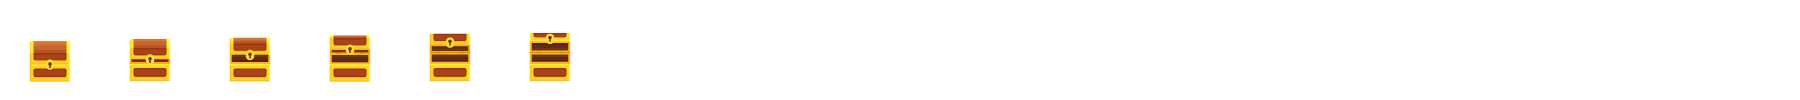
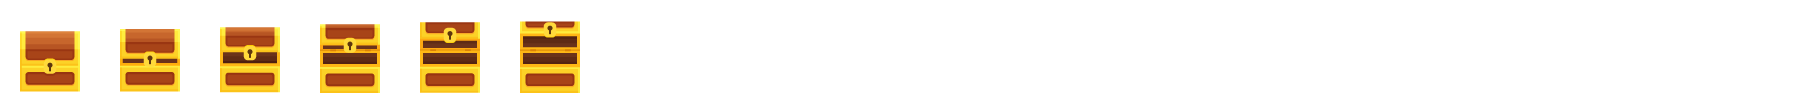
added chest item, now working on game_over state

Changed region(s): [[0.0, 0.21, 0.3422, 0.93]]

diff --git a/Main.py b/Main.py
@@ -9,6 +9,63 @@ import spritesheet
 platforms.platformS
 """
 
+
+class Menu(object):
+    def __init__(self):
+        object.__init__(self)
+        self.x = worldx
+        self.y = 5
+        self.font_size = 42
+        self.max_font_size = 104
+        self.font = pygame.font.Font('ARCADECLASSIC.TTF', self.font_size)
+        self.cs = spritesheet.spritesheet(os.path.join('images/object', 'coin100.png'))
+        self.coin_ani_count = 0
+        self.coin_rotation_rate = .2
+        self.coin_ani = self.cs.load_strip((0, 0, 100, 100), 16, (0, 0, 0))
+        self.score_spacer = 5
+        self.score_width = 0
+        self.transition_speed = 10
+        self.transition_count = 0
+        self.score_width = 0
+        self.transition_diff = round((self.x + (self.score_width / 2) / (worldx / 2)))
+        self.game_win = False
+        for i in range(0, len(self.coin_ani)):
+            size = self.font_size
+            self.coin_ani[i] = pygame.transform.scale(self.coin_ani[i], (size, size))
+
+
+    def game_over(self, world):
+        #print("font_size: {f}".format(f=self.font_size))
+        self.font = pygame.font.Font('ARCADECLASSIC.TTF', self.font_size)
+        coin_score = self.font.render(str(player.coin_count), 2, white)
+        self.score_width = coin_score.get_width()
+        if self.game_win == True:
+            if self.x + self.score_width >= worldx // 2:
+                for i in range(0, len(self.coin_ani)):
+                    print("font_size: {f}".format(f=self.font_size))
+                    self.coin_ani[i] = pygame.transform.scale(self.coin_ani[i], (self.font_size, self.font_size))
+                    print("font_size: {f}".format(f=self.font_size))
+                #print(self.x + self.score_width)
+                world.blit(coin_score, (self.x - self.score_spacer - self.score_width, round(self.y)))
+                world.blit(self.coin_ani[round(self.coin_ani_count)], (self.x - self.score_spacer - self.score_width - self.score_spacer - self.font_size, round(self.y)))
+                self.coin_ani_count += self.coin_rotation_rate
+                if self.coin_ani_count >= len(self.coin_ani) - 1:
+                    self.coin_ani_count = 0
+                self.x -= self.transition_speed
+                if self.y < worldy // 2:
+                    self.y += abs(((self.y - (worldy / 2)) // self.transition_diff)) * 3
+                if self.font_size < self.max_font_size:
+                    self.font_size += 1
+
+
+                self.score_spacer += round((self.max_font_size - self.font_size) // self.transition_diff)
+            else:
+                world.blit(coin_score, (self.x - self.score_spacer - self.score_width, self.y))
+                world.blit(self.coin_ani[round(self.coin_ani_count)], (self.x - self.score_spacer - self.score_width - self.score_spacer - self.font_size, self.y))
+                self.coin_ani_count += self.coin_rotation_rate
+                if self.coin_ani_count >= len(self.coin_ani) -1:
+                    self.coin_ani_count = 0
+
 class HUD(object):
     def __init__(self):
         self.font = pygame.font.Font('ARCADECLASSIC.TTF', 42)
@@ -19,19 +76,19 @@ class HUD(object):
         self.coin_rotation_rate = .2
         self.coin_ani = self.cs.load_strip((0, 0, 100, 100), 16, (0, 0, 0))
         self.coin_width = 40
+        self.spacer = 5
         for i in range(0, len(self.coin_ani)):
             self.coin_ani[i] = pygame.transform.scale(self.coin_ani[i], (40,40))
 
     def draw(self, world):
         coin_score = self.font.render(str(player.coin_count), 2, white)
         score_width = coin_score.get_width()
-        world.blit(coin_score, (worldx - 5 - score_width, 5))
-        world.blit(self.coin_ani[round(self.coin_ani_count)], (worldx - 5 - score_width - 5 - self.coin_width, 5))
+        world.blit(coin_score, (worldx - self.spacer - score_width, self.spacer))
+        world.blit(self.coin_ani[round(self.coin_ani_count)], (worldx - self.spacer - score_width - self.spacer - self.coin_width, self.spacer))
         self.coin_ani_count += self.coin_rotation_rate
         if self.coin_ani_count >= len(self.coin_ani) -1:
             self.coin_ani_count = 0
         self.health_bar[0] = pygame.transform.scale(self.health_bar[0], (int((player.hp / player.max_hp)* 100), 100))
-        print(int((player.hp / player.max_hp) * 100))
         world.blit(self.health_bar[1], (worldx - 105, 10))
         world.blit(self.health_bar[0], (worldx - 105, 10))
 
@@ -142,6 +199,13 @@ class Player(object):
                 self.coin_count += 1
                 coins.pop(coins.index(coin))
 
+        # Chest Collision
+        for chest in chests:
+            if self.x + self.width > chest.x and self.x < chest.x + chest.width and self.y + self.width > chest.y and self.y < chest.y + chest.width:
+                chest.triggered = True
+
+
+
 
 
     def collision(self, x, y):
@@ -192,7 +256,9 @@ class Player(object):
         self.hp -= projectile.damage
         projectiles.remove(projectile)
         print("hp: {h}".format(h=self.hp))
-        
+        if self.hp <= 1:
+            self.hp = self.max_hp
+
 class Platform(object):
     def __init__(self, x, y, width, height, filename, label):
         self.x = x
@@ -587,30 +653,30 @@ class blue_guy(enemy):
         dy = ty * z
         projectiles.append(acorn(self.x, self.y, dx, dy))
 
-class Coin(object):
+class Ani_Item(object):
     def __init__(self, x, y):
         object.__init__(self)
         self.x = x
         self.y = y
-        self.cs = spritesheet.spritesheet(os.path.join('images/object', 'coin100.png'))
-        self.coin_ani = self.cs.load_strip((0, 0, 100, 100), 16, (0, 0, 0))
-        self.coin_ani_count = 0
-        self.coin_rotation_rate = .3
-        self.width = 40
-        self.height = 40
+        self.ss = []
+        self.img_ani = []
+        self.ani_count = 0
+        self.rotation_rate = 0
+        self.width = 0
+        self.height = 0
         self.settled = False
-        self.coin_coordinates = [self.x, self.y, self.x + self.width, self.y + self.height]
+        self.hit_box = [self.x, self.y, self.x + self.width, self.y + self.height]
 
-        for i in range(0, len(self.coin_ani)):
-            self.coin_ani[i] = pygame.transform.scale(self.coin_ani[i], (40,40))
+        for i in range(0, len(self.img_ani)):
+            self.img_ani[i] = pygame.transform.scale(self.img_ani[i], (40,40))
 
     def draw(self, world):
         if self.settled is False:
             self.gravity()
-        world.blit(self.coin_ani[round(self.coin_ani_count)], (self.x, self.y))
-        self.coin_ani_count += self.coin_rotation_rate
-        if self.coin_ani_count >= len(self.coin_ani) -1:
-            self.coin_ani_count = 0
+        world.blit(self.img_ani[round(self.ani_count)], (self.x, self.y))
+        self.ani_count += self.rotation_rate
+        if self.ani_count >= len(self.img_ani) -1:
+            self.ani_count = 0
 
     def collision(self, y):
         collision = False
@@ -626,6 +692,56 @@ class Coin(object):
     def gravity(self):
         if self.collision(uni_grav_acel) is True:
             self.settled = True
+
+class Coin(Ani_Item):
+    def __init__(self, x, y):
+        object.__init__(self)
+        self.x = x
+        self.y = y
+        self.ss = spritesheet.spritesheet(os.path.join('images/object', 'coin100.png'))
+        self.img_ani = self.ss.load_strip((0, 0, 100, 100), 16, (0, 0, 0))
+        self.ani_count = 0
+        self.rotation_rate = .3
+        self.width = 40
+        self.height = 40
+        self.settled = False
+        #self.coordinates = [self.x, self.y, self.x + self.width, self.y + self.height]
+
+        for i in range(0, len(self.img_ani)):
+            self.img_ani[i] = pygame.transform.scale(self.img_ani[i], (self.width, self.height))
+
+class Chest(Ani_Item):
+    def __init__(self, x, y):
+        object.__init__(self)
+        self.x = x
+        self.y = y
+        self.ss = spritesheet.spritesheet(os.path.join('images/object', 'chest100.png'))
+        self.img_ani = self.ss.load_strip((0, 0, 100, 100), 6, (0, 0, 0))
+        self.ani_count = 0
+        self.width = 60
+        self.height = 60
+        self.coin_value = 50
+        self.settled = False
+        self.triggered = False
+
+        for i in range(0, len(self.img_ani)):
+            self.img_ani[i] = pygame.transform.scale(self.img_ani[i], (self.width, self.height))
+        #self.coordinates = [self.x, self.y, self.x + self.width, self.y + self.height]
+
+    def draw(self, world):
+        if self.settled is False:
+            self.gravity()
+        if self.triggered:
+            if self.ani_count < len(self.img_ani) - 1:
+                world.blit(self.img_ani[round(self.ani_count)], (self.x, self.y))
+                self.ani_count += .25
+            else:
+                delete_chest(self)
+                if chests == []:
+                    menu.game_win = True
+        else:
+            world.blit(self.img_ani[0], (self.x, self.y))
+
 
 class projectile(object):
     def __init__(self, x, y, dx, dy):
@@ -666,7 +782,7 @@ class acorn(projectile):
         self.dy = dy
         self.ass = spritesheet.spritesheet(os.path.join('images/object', 'sm_acorn.png'))
         self.img = self.ass.image_at((0, 0, 24, 19), (0, 0, 0))
-        self.vel = 10
+        self.vel = 15
         self.img_count = 0
         self.damage = 1
         self.width = self.img.get_width()
@@ -676,31 +792,47 @@ class acorn(projectile):
 
 def draw_world(world):
     world.blit(backdrop, backdropbox)
-    hud.draw(world)
-    for plat in platforms:
-        plat.draw(world)
-    player.draw(world)
-    for enemy in enemies:
-        enemy.draw(world)
-    for coin in coins:
-        coin.draw(world)
-    for proj in projectiles:
-        proj.draw(world)
-        if proj.x > worldx or proj.y > worldy or proj.x < 0 or proj.y < 0:
-            projectiles.remove(proj)
+    #print(menu.game_win)
+    if menu.game_win == False:
+        hud.draw(world)
+        for plat in platforms:
+            plat.draw(world)
+        player.draw(world)
+        for enemy in enemies:
+            enemy.draw(world)
+        for coin in coins:
+            coin.draw(world)
+        for proj in projectiles:
+            proj.draw(world)
+            if proj.x > worldx or proj.y > worldy or proj.x < 0 or proj.y < 0:
+                projectiles.remove(proj)
 
-    for enemy in enemies:
-        pygame.draw.circle(world, red, (enemy.chosen_ledge[0], enemy.chosen_ledge[1]), 4)
-        pygame.draw.circle(world, blue, enemy.current_platform[0], 4)
-        pygame.draw.circle(world, blue, enemy.current_platform[1], 4)
-        pygame.draw.circle(world, black, (enemy.jump_point, enemy.chosen_ledge[1]), 4)
+        for enemy in enemies:
+            pygame.draw.circle(world, red, (enemy.chosen_ledge[0], enemy.chosen_ledge[1]), 4)
+            pygame.draw.circle(world, blue, enemy.current_platform[0], 4)
+            pygame.draw.circle(world, blue, enemy.current_platform[1], 4)
+            pygame.draw.circle(world, black, (enemy.jump_point, enemy.chosen_ledge[1]), 4)
+
+        if grid_on == True:
+            draw_grid(world)
+        if pnums == True:
+            draw_pnums(world)
+
+    else:
+        menu.game_over(world)
+
+    for chest in chests:
+        chest.draw(world)
 
 
+def delete_chest(trip_chest):
+    try:
+        player.coin_count += trip_chest.coin_value
+        chests.remove(trip_chest)
+        print(chests)
 
-    if grid_on == True:
-        draw_grid(world)
-    if pnums == True:
-        draw_pnums(world)
+    except:
+        print("Chest not found!")
 
 
 def load_level(level):
@@ -709,7 +841,7 @@ def load_level(level):
     for coin in level[1]:
         coins.append(coin)
     for chest in level[2]:
-        chest.append(chest)
+        chests.append(chest)
     for enemy in level[3]:
         enemies.append(enemy)
     player.x = level[4][0]
@@ -733,8 +865,6 @@ def draw_grid(world):
         world.blit(ylabel, (1960, y))
 
         pygame.draw.line(world, black, (0, y), (worldx, y))
-
-
 
 
 def display_grid(grid_on):
@@ -770,6 +900,7 @@ clock = pygame.time.Clock()
 pygame.init()
 world = pygame.display.set_mode([worldx, worldy], pygame.FULLSCREEN)
 hud = HUD()
+menu = Menu()
 backdrop = pygame.image.load(os.path.join('images', 'Background1920x1080.png')).convert()
 backdropbox = world.get_rect()
 ground = (os.path.join('images', 'full_ground1920x64.png'))
@@ -777,6 +908,7 @@ sml_platform = (os.path.join('images', '1TilePlatform64x64.png'))
 mdm_platform = (os.path.join('images', '2TilePlatform128x64.png'))
 grid_on = False
 pnums = False
+game_win = False
 
 
 # key presses
@@ -797,7 +929,7 @@ LEVEL CREATION
 """
 level_platforms = []
 level_coins = []
-level_chest = []
+level_chests = []
 level_enemies = []
 level_player = []
 
@@ -828,26 +960,6 @@ for i in level_platforms:
         level_coins.append(Coin(cx, cy))
     if i.width == 128:
         level_coins.append(Coin(cx+64, cy))
-"""
-level_coins.append(Coin(32, 320))
-level_coins.append(Coin(96, 320))
-level_coins.append(Coin(192, 256))
-level_coins.append(Coin(352, 288))
-level_coins.append(Coin(480, 416))
-level_coins.append(Coin(576, 544))
-level_coins.append(Coin(640, 608))
-level_coins.append(Coin(704, 608))
-level_coins.append(Coin(445, 0))
-level_coins.append(Coin(200, 240))
-level_coins.append(Coin(325, 110))
-level_coins.append(Coin(445, 0))
-level_coins.append(Coin(200, 240))
-level_coins.append(Coin(325, 110))
-level_coins.append(Coin(445, 0))
-level_coins.append(Coin(200, 240))
-level_coins.append(Coin(325, 110))
-level_coins.append(Coin(445, 0))
-"""
 
 coin_x = 100
 for i in range(0, 15):
@@ -860,7 +972,9 @@ level_enemies.append(red_guy(660, 600))
 
 level_player = [worldx - 100, worldy-200]
 
-demo_level = [level_platforms, level_coins, level_chest, level_enemies, level_player]
+level_chests.append(Chest(1700, 900))
+
+demo_level = [level_platforms, level_coins, level_chests, level_enemies, level_player]
 
 
 
@@ -876,10 +990,11 @@ demo_level = [level_platforms, level_coins, level_chest, level_enemies, level_pl
 # create world platforms.platforms
 platforms = []
 coins = []
-chest = []
+chests = []
 enemies = []
 projectiles = []
 player = Player(0,0)
+
 
 
 
